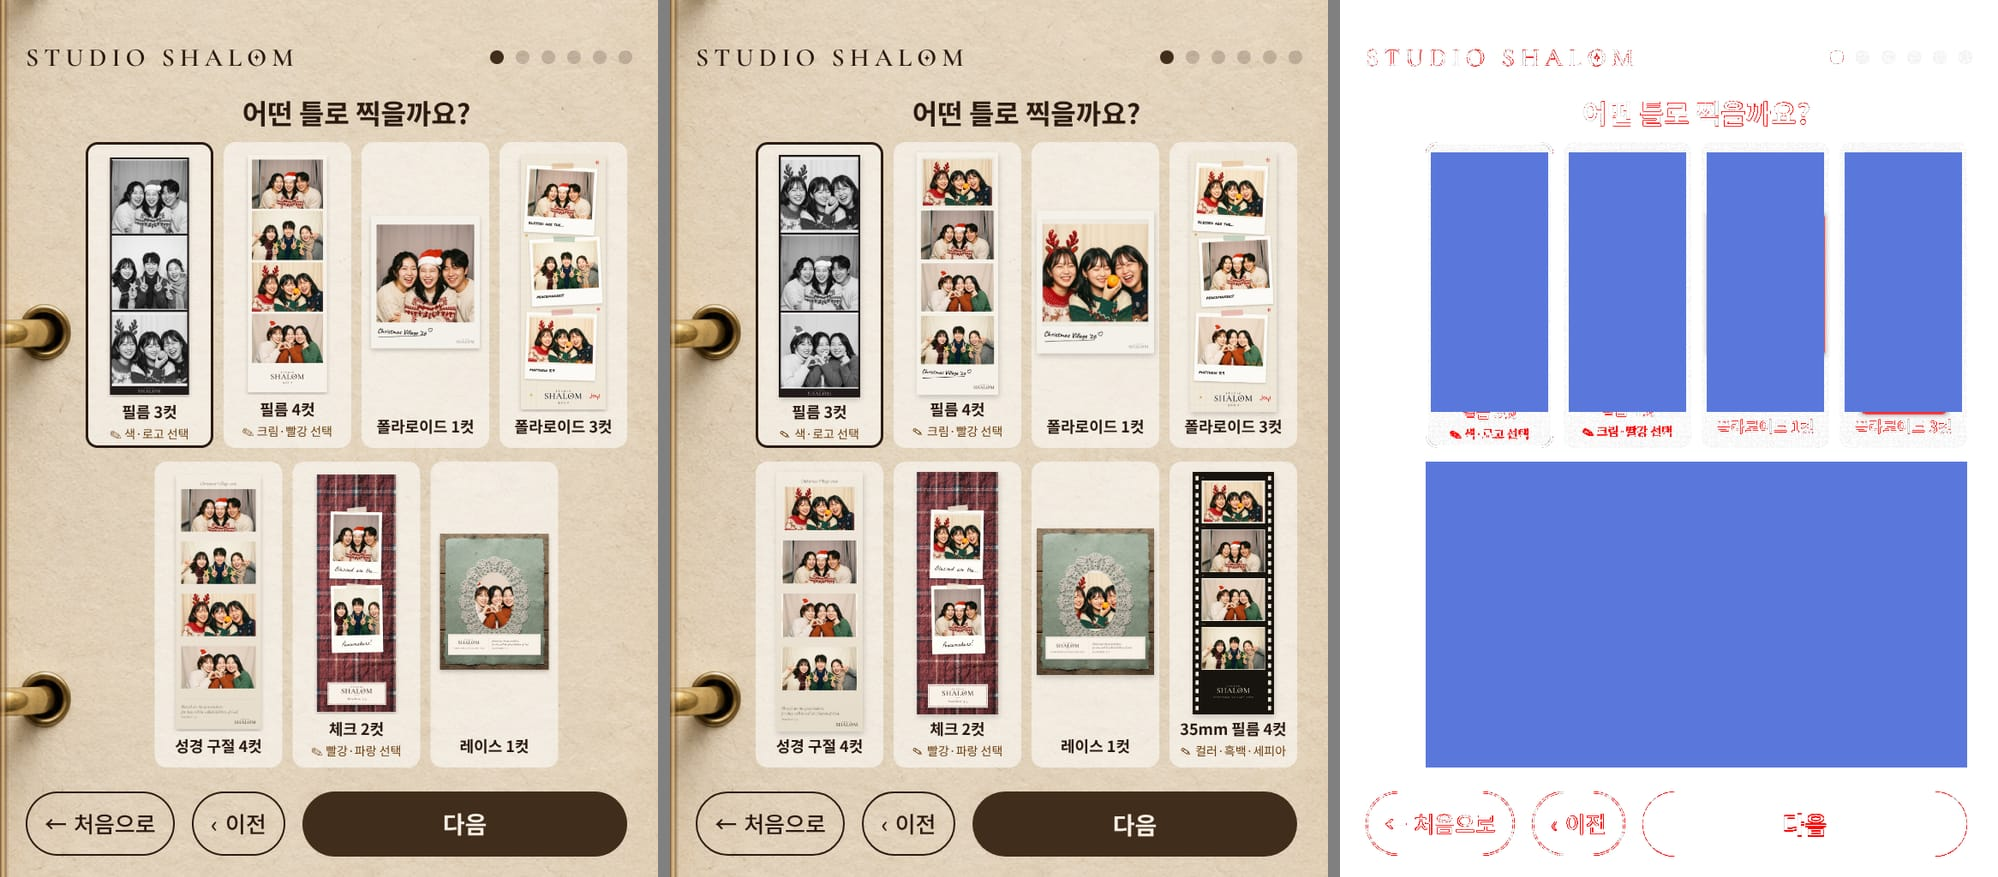
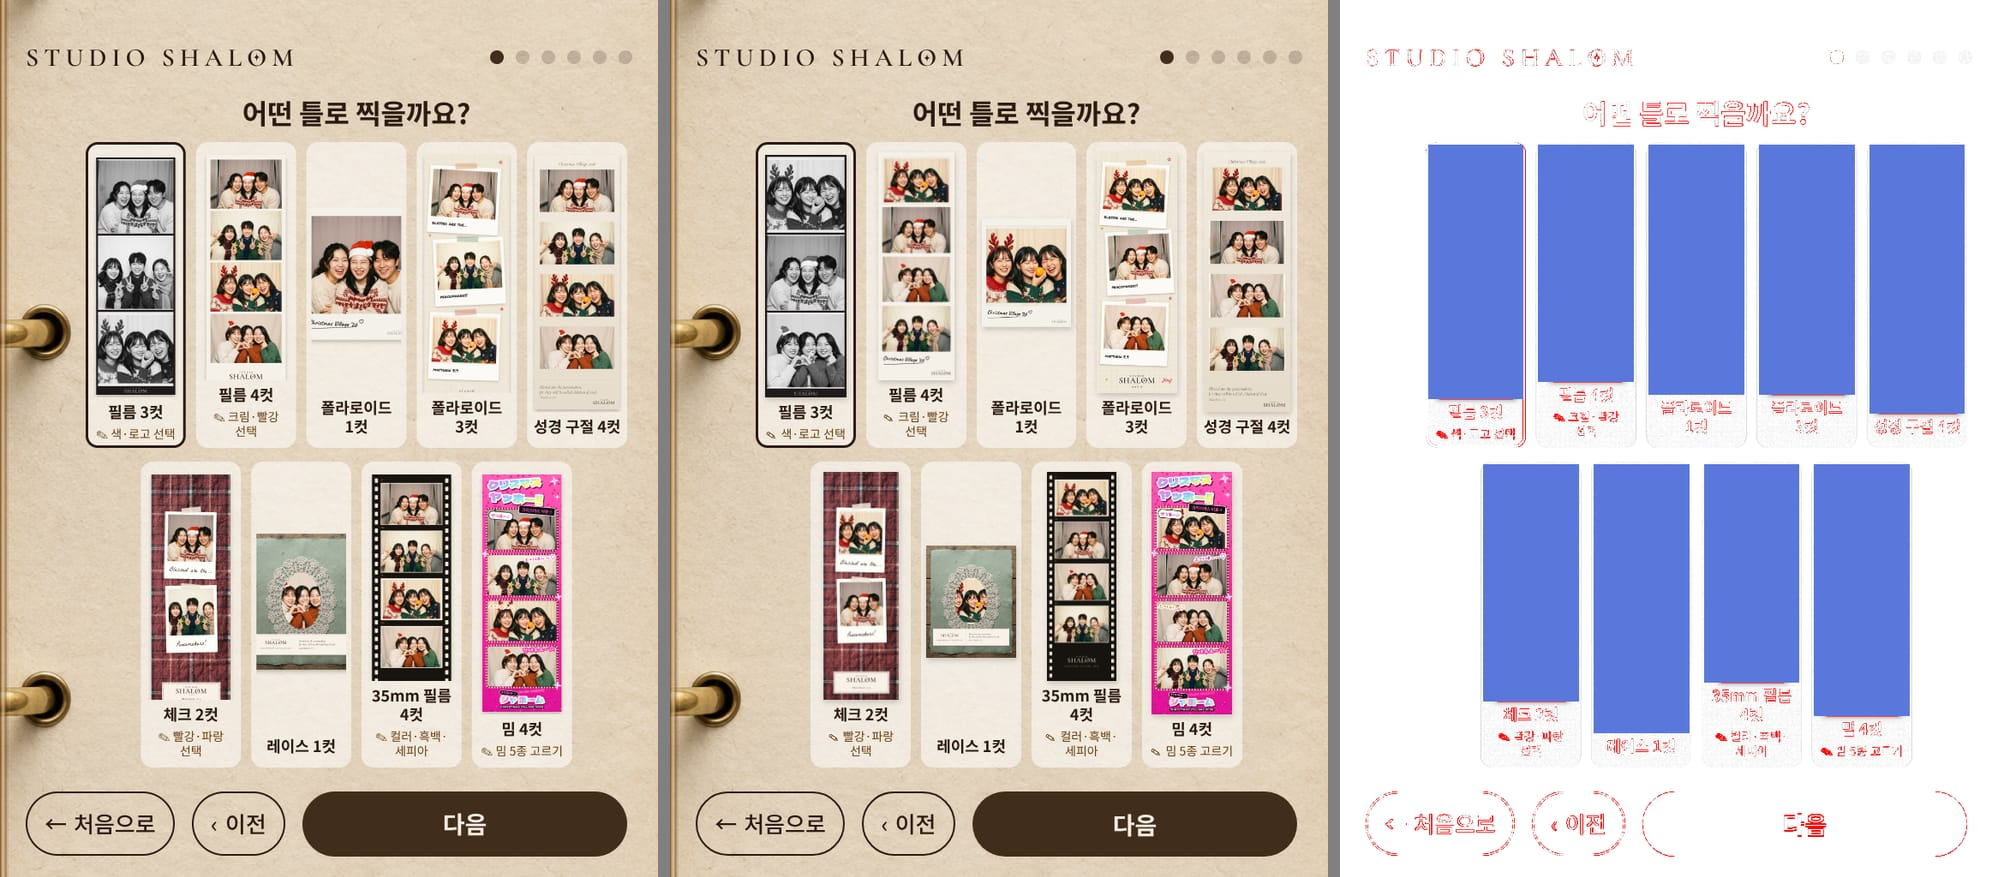
feat(parity): the picker against Figma's nine-card screen (1069:2245)
Figma now has the picker as the booth shows it: nine cards five to a row, names and hints
broken between words like the booth's keep-all. The screens spec compares the whole cards
area again (only the previews are masked) and checks every card name and hint. The booth's
pencil now sits in a wrapped hint's first line, as in Figma. Chromium: 1 px, 1.55 %.

Claude-Session: https://claude.ai/code/session_01NhCrP8x1B8HmYS3a2a1mCq

Changed region(s): [[0.3724, 0.1539, 0.6517, 0.8928], [0.031, 0.1539, 0.3103, 0.8928], [0.7137, 0.1539, 0.993, 0.8928]]

diff --git a/e2e/figma-parity-screens.spec.ts b/e2e/figma-parity-screens.spec.ts
@@ -6,7 +6,7 @@ import { diff, toRaw, triptych, type Rect } from "../tests/parity/compare";
 import { enrollKiosk, openWelcome } from "./helpers";
 
 /**
- * 「Figma 일치」, the four v2 screens at 768 × 1024 (Figma 898:1677, 898:1938, 898:2006, 898:2083):
+ * 「Figma 일치」, the four v2 screens at 768 × 1024 (Figma 1069:2245, 898:1938, 898:2006, 898:2083):
  *  - every element where Figma puts it, within ±2 px, and the same type sizes;
  *  - the screenshot against the Figma export: share of pixels with ΔE00 > 5 at most 2 %, with the
  *    frame previews masked (example photos, cycling handwriting).
@@ -44,18 +44,38 @@ const HEADER: Want[] = [
 ];
 const title: Want = { sel: ".pick-head .booth-title", text: { cx: 416, cy: 132, size: 32 } };
 /**
- * The cards. Figma's picker (898:1677) has seven, four to a row at 149 × 357. The booth has nine
- * since 2026-11-26 (필름 35mm, then 밈 4컷), five to a row in the same box (x 100 → 732, rows at
- * y 166 and 539, 357 tall, 12 apart): 116.8 wide, the second row of four centred. Figma has no
- * picker with nine cards: these positions follow from its grid, they are not read from a Figma
- * frame, and the cards area is left out of the pixel comparison (CARDS) until the Figma screen
- * has them. The header, the title and the bottom bar are still compared with Figma.
+ * The cards: nine, five to a row (Figma 1069:2245, "2-A 틀 고르기 · 9개", made 2026-11-26 when
+ * 밈 4컷 joined; 898:1677 is the earlier seven-card screen). 116.8 × 357, 12 apart, rows at y 166
+ * and 539, the second row of four centred. Names and hints break between words, as the booth's
+ * `keep-all` does, and the pencil sits in the hint's first line.
  */
 const CARD_W = 116.8;
 const col = (i: number) => 100 + i * (CARD_W + 12);
 const ROW1 = ["film3", "film4", "polaroid1", "polaroid3", "verse4"];
 const ROW2 = ["check2", "lace1", "film35", "meme4"];
-const CARDS: Rect = { x: 100, y: 166, w: 632, h: 730 };
+/** Figma's text boxes, [x, y, w, h], read from 1069:2245. */
+const NAMES: Record<string, Box> = {
+  film3: [109, 470, 98.8, 22],
+  film4: [234.8, 450, 104.8, 22],
+  polaroid1: [363.6, 465, 104.8, 44],
+  polaroid3: [492.4, 465, 104.8, 44],
+  verse4: [621.2, 487, 104.8, 22],
+  check2: [170.4, 823, 104.8, 22],
+  lace1: [299.2, 860, 104.8, 22],
+  film35: [428, 801, 104.8, 44],
+  meme4: [556.8, 840, 104.8, 22],
+};
+const HINTS: Record<string, Box> = {
+  film3: [109, 498, 98.8, 17],
+  film4: [234.8, 478, 104.8, 34],
+  check2: [170.4, 851, 104.8, 34],
+  film35: [428, 851, 104.8, 34],
+  meme4: [556.8, 868, 104.8, 17],
+};
+const centre = ([x, y, w, h]: Box, size: number) => ({ cx: x + w / 2, cy: y + h / 2, size });
+const cardX = (id: string) =>
+  ROW1.includes(id) ? col(ROW1.indexOf(id)) : col(ROW2.indexOf(id) + 0.5);
+const cardY = (id: string) => (ROW1.includes(id) ? 166 : 539);
 
 const SCREENS: Record<string, { wants: Want[]; masks: Rect[] }> = {
   pick: {
@@ -63,16 +83,27 @@ const SCREENS: Record<string, { wants: Want[]; masks: Rect[] }> = {
       ...HEADER,
       title,
       { sel: '[data-testid="confirm-pick"]', box: [353, 924, 379, 76] },
-      ...ROW1.map((id, i) => ({
+      ...[...ROW1, ...ROW2].map((id) => ({
         sel: `[data-testid="frame-option-${id}"]`,
-        box: [col(i), 166, CARD_W, 357] as Box,
+        box: [cardX(id), cardY(id), CARD_W, 357] as Box,
       })),
-      ...ROW2.map((id, i) => ({
-        sel: `[data-testid="frame-option-${id}"]`,
-        box: [col(i + 0.5), 539, CARD_W, 357] as Box,
+      ...Object.entries(NAMES).map(([id, box]) => ({
+        sel: `[data-testid="frame-option-${id}"] .pick-card-name`,
+        text: centre(box, 18),
+      })),
+      ...Object.entries(HINTS).map(([id, box]) => ({
+        sel: `[data-testid="frame-option-${id}"] .pick-card-hint`,
+        text: centre(box, 14),
       })),
     ],
-    masks: [CARDS],
+    // The previews only (example photos; the frame art itself is compared in
+    // figma-parity.spec): inside each card, from its top padding to just above its name.
+    masks: Object.entries(NAMES).map(([id, [, nameY]]) => ({
+      x: cardX(id) + 3,
+      y: cardY(id) + 3,
+      w: CARD_W - 6,
+      h: nameY - 4 - (cardY(id) + 3),
+    })),
   },
   film3: {
     wants: [

diff --git a/app/kiosk-figma.css b/app/kiosk-figma.css
@@ -608,11 +608,16 @@
   justify-content: center;
   gap: calc(5.2 * var(--fx));
 }
+/* The pencil sits in the hint's first line, as in Figma: a hint that wraps (five cards to a row)
+   goes on under the text, not under the pencil. */
 .kiosk-root .booth-screen-v2 .pick-card-hint {
-  display: inline-flex;
-  align-items: center;
-  justify-content: center;
-  gap: calc(4.5 * var(--fx));
+  display: block;
+  text-align: center;
+}
+.kiosk-root .booth-screen-v2 .pick-card-hint .v2-mark-pencil {
+  display: inline-block;
+  vertical-align: baseline;
+  margin-right: calc(4.5 * var(--fx));
 }
 /* The bar's two buttons start on the same line (924); the main button is flat in Figma
    (898:1677: a plain #412D1B pill, no bevel, no cast shadow). */

diff --git a/docs/STATUS.md b/docs/STATUS.md
@@ -4,6 +4,18 @@
 이전 기록 `docs/STATUS_2026-10-12.md`는 PR #7(미디어월) 병합 전 내용이라 "Phase 4 미착수"로 적혀
 있다. 역사 기록으로만 본다.
 
+## Figma 9장 틀 고르기 화면 (2026-11-26)
+
+사용자 결정: "만들자". Figma `ZbeBrS0o5012SNFrGZNyIU` KIOSK 페이지 「2 · 틀 고르기」에 `iPad mini 768×1024 · 2-A 틀 고르기 · 9개`
+(1069:2245)를 새로 만들었다. 898:1677(7장)을 복제해 카드 9장을 한 줄 5장으로 놓고, 35mm 필름·밈 4컷 카드를 더했다.
+
+| 항목                                                                                                                     | 상태                                           |
+| ------------------------------------------------------------------------------------------------------------------------ | ---------------------------------------------- |
+| 카드 9장 116.8 × 357, 간격 12, 둘째 줄 4장 가운데. 이름·힌트는 부스처럼 낱말 사이에서 줄바꿈                             | 구현됨(Figma)                                  |
+| 힌트가 두 줄일 때 연필 표시를 첫 줄 앞에 둠(코드도 Figma처럼 고침)                                                       | 구현됨. 화면 비교                              |
+| 화면 비교 `e2e/figma-parity-screens.spec.ts`: 카드 영역 가림(`CARDS`)을 없애고 미리보기만 가림, 카드 이름·힌트 위치 검사 | 검증됨(Chromium): 1 px · 1.55 %. WebKit 미측정 |
+| 898:1677의 폴라로이드 1컷 「문구 고르기」 힌트(2-D 문구 화면)는 코드에 아직 없어서 9장 화면에는 넣지 않음                | **미구현** (별도 요청 필요)                    |
+
 ## 색감 기본값 = 원본, 손님이 고름 (2026-11-26)
 
 사용자 결정: "색감의 경우 모든 템플릿에서 아무것도 없는걸 원칙으로 하고 유저가 직접 고를 수 있게".
@@ -25,16 +37,16 @@
 15 촬영 포기하겠습니다(1027:1866), 16 이거 제 이모찌야(998:1817), 17 L을 가져가(1000:1823), 18-B 분석 중? 말풍선(1021:1829).
 18 「분석 중? · 네온 스캔 HUD」(1018:1823, 검은 바탕)는 뺐다.
 
-| 항목                                                                                                                                                                                            | 상태                                                                                                   |
-| ----------------------------------------------------------------------------------------------------------------------------------------------------------------------------------------------- | ------------------------------------------------------------------------------------------------------ |
-| 틀 고르기에 9번째 카드 「밈 4컷」, 다음 화면에서 밈 5종 중 고름(`theme`, 야호가 기본). 틀 id `meme4-yaho` · `-quit` · `-emoji` · `-takel` · `-analyzing`                                        | 구현됨. 단위 테스트 + E2E(5종 모두 QR까지)                                                             |
-| 틀 그림: Figma에서 사진 아래 배경(PNG 2배·1배)과 사진 위 덮개(SVG 벡터)를 내보냄. 사진 칸·둥근 모서리는 Figma `📷` 레이어 값                                                                    | 구현됨. Figma 일치: 결과물 5종 모두 ≤ 1 % (표는 docs/FIGMA_PARITY.md)                                  |
-| 로고: 밈 틀은 공통 2줄 로고 대신 Figma 틀 안의 로고를 그대로 씀(가타카나 シャローム, 문자 머리말, A2O 패러디 아래 줄, 4줄 로고)                                                                 | 구현됨. 단위 테스트의 로고 규칙에 예외로 적음                                                          |
-| 틀 고르기 화면: 카드 9장, 한 줄 5장(116.8 × 357). Figma에는 9장 화면이 아직 없음                                                                                                                | 구현됨. **Figma 화면 없음**: 화면 비교에서 카드 영역은 가림(`CARDS`), 카드 위치는 격자 계산값으로 검사 |
-| 밈 고르기 화면(답 5개, 한 줄 3개)                                                                                                                                                               | 구현됨. **Figma 화면 없음**                                                                            |
-| 카드·밈 이름의 영어·중국어, 힌트 「밈 5종 고르기」, 제목 「어떤 밈으로 찍을까요?」(2026-11-26 사용자 요청 "바꿔"로 교체, Figma 틀 고르기의 「어떤 틀로 찍을까요?」·「문구 고르기」 말투에 맞춤) | **임시 문구** (Claude가 씀, D76). 밈 이름 한국어는 Figma 제목 그대로                                   |
-| 밈 틀의 색감(룩): 기본값 `paper`                                                                                                                                                                | 구현됨. 틀마다 어울리는 색감은 사용자 결정 필요                                                        |
-| 실제 iPad mini 4(Safari 15)에서 큰 SVG 덮개(최대 400 KB) 합성 속도                                                                                                                              | **미검증**                                                                                             |
+| 항목                                                                                                                                                                                            | 상태                                                                        |
+| ----------------------------------------------------------------------------------------------------------------------------------------------------------------------------------------------- | --------------------------------------------------------------------------- |
+| 틀 고르기에 9번째 카드 「밈 4컷」, 다음 화면에서 밈 5종 중 고름(`theme`, 야호가 기본). 틀 id `meme4-yaho` · `-quit` · `-emoji` · `-takel` · `-analyzing`                                        | 구현됨. 단위 테스트 + E2E(5종 모두 QR까지)                                  |
+| 틀 그림: Figma에서 사진 아래 배경(PNG 2배·1배)과 사진 위 덮개(SVG 벡터)를 내보냄. 사진 칸·둥근 모서리는 Figma `📷` 레이어 값                                                                    | 구현됨. Figma 일치: 결과물 5종 모두 ≤ 1 % (표는 docs/FIGMA_PARITY.md)       |
+| 로고: 밈 틀은 공통 2줄 로고 대신 Figma 틀 안의 로고를 그대로 씀(가타카나 シャローム, 문자 머리말, A2O 패러디 아래 줄, 4줄 로고)                                                                 | 구현됨. 단위 테스트의 로고 규칙에 예외로 적음                               |
+| 틀 고르기 화면: 카드 9장, 한 줄 5장(116.8 × 357). Figma 9장 화면 1069:2245(2026-11-26)를 만들어 화면 비교를 되돌림(카드 영역 가림 없음, 미리보기만 가림)                                        | 검증됨(Chromium): 위치 1 px, ΔE00 > 5 픽셀 1.55 % (기준 2 %). WebKit 미측정 |
+| 밈 고르기 화면(답 5개, 한 줄 3개)                                                                                                                                                               | 구현됨. **Figma 화면 없음**                                                 |
+| 카드·밈 이름의 영어·중국어, 힌트 「밈 5종 고르기」, 제목 「어떤 밈으로 찍을까요?」(2026-11-26 사용자 요청 "바꿔"로 교체, Figma 틀 고르기의 「어떤 틀로 찍을까요?」·「문구 고르기」 말투에 맞춤) | **임시 문구** (Claude가 씀, D76). 밈 이름 한국어는 Figma 제목 그대로        |
+| 밈 틀의 색감(룩): 기본값 `paper`                                                                                                                                                                | 구현됨. 틀마다 어울리는 색감은 사용자 결정 필요                             |
+| 실제 iPad mini 4(Safari 15)에서 큰 SVG 덮개(최대 400 KB) 합성 속도                                                                                                                              | **미검증**                                                                  |
 
 ## 손님이 색감(필터)을 못 고르던 문제 (2026-11-26)
 

diff --git a/CLAUDE.md b/CLAUDE.md
@@ -286,7 +286,7 @@ looks:measure`). `/looks` is the comparison
   `public/studio/` (desk, shutter knob, kraft envelope, stamp ring). A component uses a picture only
   once it has loaded (`useAssetReady`) and otherwise keeps its drawn look (`data-art="drawn"`); a
   missing file must never break a layout or a touch target. The shutter stays the screen's one
-  `.booth-btn-primary`. The v2 frame picker is the Figma card grid (`.pick-card`, 898:1677), not
+  `.booth-btn-primary`. The v2 frame picker is the Figma card grid (`.pick-card`, 1069:2245; 898:1677 before 밈 4컷), not
   postcards on the desk; nothing on the picker or the options screen sits on the binder rings
   (`--ring-safe` in `app/kiosk-figma.css`).
 - **One light, top left (135°)** (D101): every cast shadow falls to +x +y: the `--shadow-*`,
@@ -306,10 +306,9 @@ looks:measure`). `/looks` is the comparison
   (768 × 1024: elements within 2 px, same type sizes, at most 2 %) compare the booth with Figma
   exports in `tests/fixtures/figma-parity/`. A change to a v2 frame, its art, a tone, or the picker
   and options screens keeps both green in Chromium and WebKit; never loosen a limit or widen a mask
-  to pass. One exception is written down: Figma's picker still has seven cards, four to a row,
-  and the booth has nine, five to a row in the same box (2026-11-26), so the cards area is left
-  out of the pixel comparison until the Figma screen has them (`CARDS` in the screens spec; the
-  card boxes are still checked against the grid they follow from). The shared header and "처음으로" are at the Figma sizes (75 tall, 26 px; wordmark 30 px;
+  to pass. The picker's reference is Figma 1069:2245 (「2-A 틀 고르기 · 9개」, 2026-11-26): nine
+  cards five to a row, names and hints broken between words as the booth's `keep-all` breaks them,
+  the pencil in the hint's first line; only the card previews are masked. The shared header and "처음으로" are at the Figma sizes (75 tall, 26 px; wordmark 30 px;
   16 px dots) on every booth screen. The width of a space differs between browsers with the same
   font: `lib/kiosk/space.ts` measures it and `--space-fix` corrects it; never hard-code a
   `word-spacing` for one engine.

diff --git a/design/README.md b/design/README.md
@@ -29,7 +29,8 @@ Figma와 다른 점: 미리보기 색은 Figma 이미지 조정으로 흉내 낸
 각 틀은 그림 두 장이다: `public/frames/v2/meme4-<밈>-base.png`(첫 `📷` 레이어 아래 전부, 사진 칸은 회색 상자로 남겨 흰 테두리·그림자 유지)와
 `meme4-<밈>-overlay.svg`(첫 `📷` 레이어 위 전부, 벡터). 내보내기는 임시 페이지에 복제해서 하고 지웠다(원본은 그대로).
 Figma 틀을 고치면 같은 방법으로 두 장을 다시 내보내고, 글자 레이어 필터의 `feMorphology`(Figma가 글자에는 그리지 않는 그림자 퍼짐)를 지운다.
-틀 고르기 화면은 카드 9장(한 줄 5장)이 되었고, Figma에는 아직 그 화면이 없다.
+틀 고르기 화면은 카드 9장(한 줄 5장)이 되었다. Figma 화면은 KIOSK 페이지 「2 · 틀 고르기」의 1069:2245(9개)이고,
+화면 비교(`e2e/figma-parity-screens.spec.ts`)의 기준 그림도 이것이다.
 
 **미디어월 상태 줄 (2026-11-25):** AI 검수가 기본으로 켜지면서 QR 화면에 상태 줄을 더했다. Figma
 `ZbeBrS0o5012SNFrGZNyIU` 의 `8 · QR 받기` 구역에 컴포넌트 `Kiosk/Wall status`(969:1690, 확인 중·올라감·지연)와
